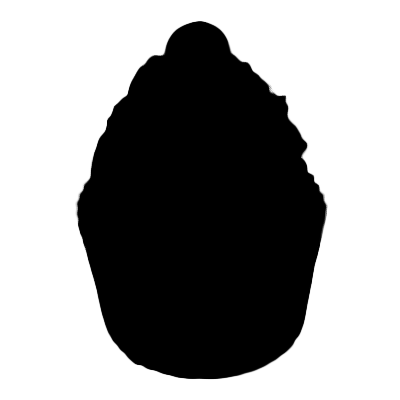
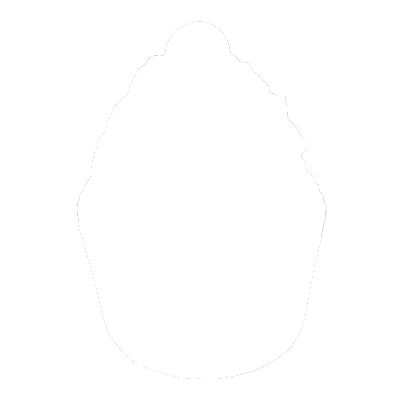
Updates to slider

diff --git a/css/slider.css b/css/slider.css
@@ -26,7 +26,6 @@ img{
 
 .brwn-text{
 	color: #663300;
-
 }
 
 .mrgn-top{
@@ -50,13 +49,27 @@ a{
 	text-decoration: none;
 }
 
-/*.opacity-hover:hover{
-	overflow: hidden;
+.opacity-hover:hover img{
+	-webkit-filter: hue-rotate(30deg) saturate(100%) brightness(40%);
+	opacity: .7;
+	cursor: pointer;
+
+}
+
+#chocpb-cake:hover{
+	display: 
+}
+
+#chocpb-cake{
+	color: #ffffff;
+	font-size: .75em;
+	/*display: none;*/
+	position: absolute;
+	top: 1em;
+	left: 3.5em;
+	width: 100px;
 	float: left;
-    background: #663300;
-    opacity: .3;
-    cursor: pointer;
-}*/
+}
 
 
 button{
@@ -66,13 +79,4 @@ button{
 
 .center-button{
 	margin-left: 4em;
-}
-
-.cpb-mask:hover{
-	width: 192px;
-	overflow: hidden;
-	background-color:#663300;
-	background: url(images/cpb-mask.png)
-	mask-image:url(images/cpb-mask.png) cover;
-	-webkit-mask-image: url(images/cpb-mask.png);
 }

diff --git a/home-slider.html b/home-slider.html
@@ -12,10 +12,11 @@
 			<span class="center-text brwn-text dsply-blk mrgn-top">1 doz. minimum order - mix and match</span>
 
 			<div class="cols">
-			<a class="opacity-hover center" id="chocpb-cake" href="/"> 
-			<img class="cpb-mask" src="images/chocolateandpeanutbutter.png" class="center" alt="Chocolate &amp; Peanut Butter Cupcake">
+			<a class="opacity-hover center" href="/"> 
+			<img src="images/chocolateandpeanutbutter.png" class="center" alt="Chocolate &amp; Peanut Butter Cupcake">
 			<span class="center-text brwn-text dsply-blk">Chocolate &amp; Peanut Butter</span>
 			</a>
+			<span id="chocpb-cake">Our classic chocolate cake topped with yummy peanut butter cream cheese frosting</span>
 			<span class="center-text brwn-text dsply-blk mrgn-top">$2.50 ea.</span>
 			<button class="dsply-blk center-button">add to cart</button>
 			</div>
